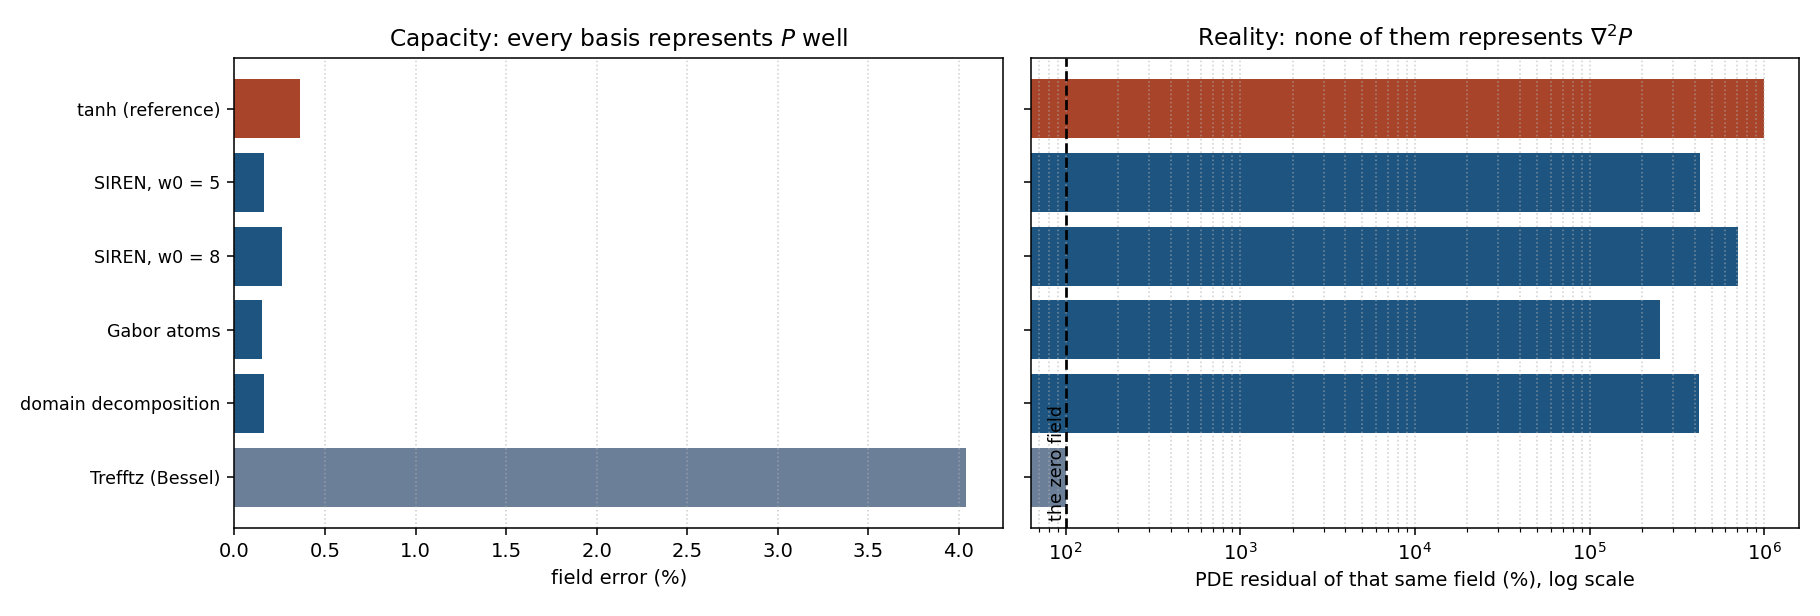
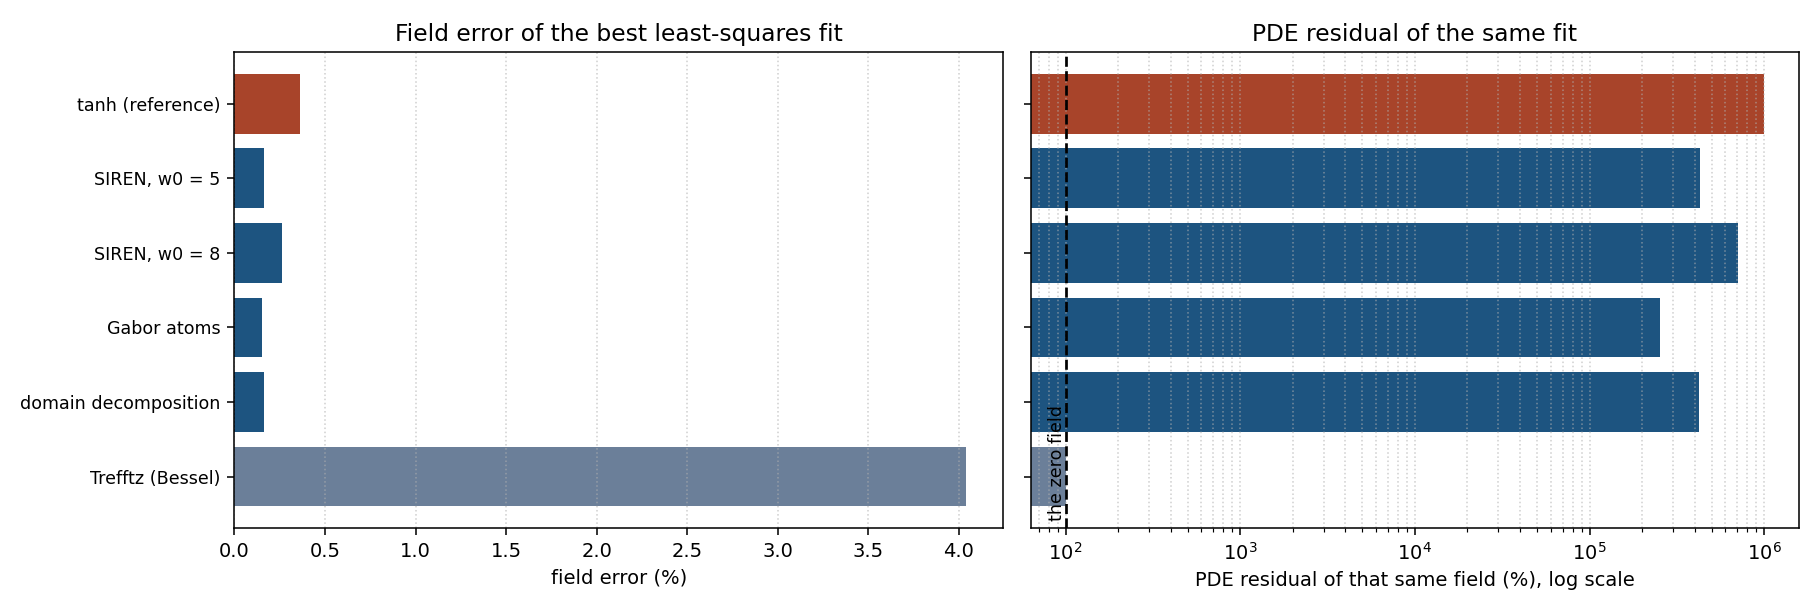
Shorten the README and move supporting detail to docs/details.md
- README cut from about 2,460 to 1,370 words; the PML study, the harmonic
  extrapolation, the validation discussion and secondary results now live
  in docs/details.md.
- Correct the end-correction wording: only the time-domain solver computes
  it; the frequency-domain solver imposes it through the radiation impedance.
- Mention the Trefftz basis shown in the benchmark figure; fix the short
  PML command (PML_SKIP_B=1 PML_SKIP_C=1) and its run time.
- Neutral titles on figures/bench_bases.png (script rerun, data unchanged).
- Re-render the hero GIF from the existing simulation output: no empty left
  margin, no coarse f0 in the title, 6.9 MB -> 4.2 MB.

diff --git a/tools/make_resonance_anim.py b/tools/make_resonance_anim.py
@@ -44,12 +44,12 @@ dom_f = mirror(dom)
 vmax = 1.15*np.abs(p_cav).max()          # scale set by the resonance (the source saturates)
 
 # temporal subsampling, to keep the GIF small
-STEP = int(os.environ.get("AN_STEP", 2))
+STEP = int(os.environ.get("AN_STEP", 3))
 idx = np.arange(0, len(ft), STEP)
 
 plt.rcParams.update({"font.size": 9.5})
-fig = plt.figure(figsize=(8.8, 6.9))
-gs = GridSpec(2, 1, height_ratios=[1.5, 1.0], hspace=0.38)
+fig = plt.figure(figsize=(6.2, 6.6))
+gs = GridSpec(2, 1, height_ratios=[1.9, 1.0], hspace=0.30, top=0.93, bottom=0.08, left=0.11, right=0.90)
 axF = fig.add_subplot(gs[0]); axS = fig.add_subplot(gs[1])
 
 zmm, rmm = z*1e3, r_full*1e3
@@ -79,7 +79,7 @@ axS.plot(t*1e3, p_cav, "C0", lw=0.9, label="cavity probe (resonance)")
 axS.set(xlabel="t (ms)", ylabel="p (Pa)", xlim=(0, ft.max()*1e3))
 axS.grid(alpha=0.3); axS.legend(fontsize=8, loc="upper right")
 cur = axS.axvline(ft[0]*1e3, color="C3", lw=1.4)
-sup = fig.suptitle("", fontsize=10.5, y=0.978)
+sup = fig.suptitle("", fontsize=9.5, y=0.985)
 
 def phase_label(tt):
     if tt < 0.010: return "the pulse propagates"
@@ -90,8 +90,8 @@ def update(k):
     i = idx[k]
     qm.set_array(np.where(dom_f, mirror(frames[i]), np.nan).ravel())
     cur.set_xdata([ft[i]*1e3, ft[i]*1e3])
-    sup.set_text(f"Open-neck Helmholtz resonator  |  t = {ft[i]*1e3:5.1f} ms  "
-                 f"-  {phase_label(ft[i])}   (f0 = {f0:.0f} Hz)")
+    sup.set_text(f"t = {ft[i]*1e3:5.1f} ms  "
+                 f"-  {phase_label(ft[i])}")
     return qm, cur, sup
 
 anim = FuncAnimation(fig, update, frames=len(idx), blit=False)
@@ -103,6 +103,6 @@ from PIL import Image, ImageSequence
 im = Image.open(out)
 fr = [f.convert("RGB").quantize(colors=80, method=Image.MEDIANCUT)
       for f in ImageSequence.Iterator(im)]
-fr[0].save(out, save_all=True, append_images=fr[1:], duration=50, loop=0, optimize=True)
+fr[0].save(out, save_all=True, append_images=fr[1:], duration=int(1000*STEP/40), loop=0, optimize=True)
 print(f"Animation: {out}  ({len(idx)} frames, f0={f0:.0f} Hz, "
       f"{os.path.getsize(out)/1e6:.1f} MB)")

diff --git a/studies/neural_basis_benchmark.py b/studies/neural_basis_benchmark.py
@@ -311,7 +311,7 @@ ax[0].barh(pos, [r[1] * 100 for r in rows], color=colours)
 ax[0].set_yticks(pos); ax[0].set_yticklabels(names, fontsize=9)
 ax[0].invert_yaxis()
 ax[0].set_xlabel("field error (%)")
-ax[0].set_title("Capacity: every basis represents $P$ well")
+ax[0].set_title("Field error of the best least-squares fit")
 ax[0].grid(ls=":", alpha=0.6, axis="x")
 
 ax[1].barh(pos, [max(r[2] * 100, 1e-1) for r in rows], color=colours)
@@ -322,7 +322,7 @@ ax[1].set_xscale("log")
 ax[1].set_yticks(pos); ax[1].set_yticklabels([])
 ax[1].invert_yaxis()
 ax[1].set_xlabel("PDE residual of that same field (%), log scale")
-ax[1].set_title("Reality: none of them represents $\\nabla^2 P$")
+ax[1].set_title("PDE residual of the same fit")
 ax[1].grid(ls=":", alpha=0.6, axis="x", which="both")
 
 fig.tight_layout()

diff --git a/README.md b/README.md
@@ -4,144 +4,113 @@ Two independent axisymmetric finite-difference solvers (frequency domain and tim
 
 ![Transient simulation of the open resonator](figures/helmholtz_resonance.gif)
 
-*Time-domain solver, 1 mm grid, mirrored meridian section. A broadband pulse from the source (left) reaches the mouth and enters the neck. Once the pulse has passed, the cavity keeps oscillating on its own: nothing in the model imposes a frequency. The f0 printed in the title is a quick FFT over this short animation run (13 Hz bins); the converged value is 204.6 Hz.*
+*Time-domain solver, 1 mm grid. A broadband pulse enters the neck; once it has passed, the cavity keeps oscillating at its own frequency. No frequency is imposed.*
 
-This started as my TIPE, the research project of the French classes préparatoires, in 2023. In 2026 I reopened it and rebuilt it properly. The repository began as a physics-informed neural network experiment, hence its old name (`PINN-Helmholtz`), but I could not judge a network's output without a reference I trusted, so I wrote and verified that reference first. The question became: can a finite-difference model predict the natural frequency of an open resonator with a stated numerical uncertainty, and where does it stop matching reality?
+This started as my TIPE, the research project of the French classes préparatoires, in 2023. In 2026 I reopened it and rebuilt it properly. The repository began as a physics-informed neural network experiment, hence its old name (`PINN-Helmholtz`), but I could not judge a network's output without a reference I trusted, so I wrote and verified that reference first. The question: can a finite-difference model predict the natural frequency of an open resonator with a stated uncertainty, and where does it stop matching reality?
 
 Reference geometry: neck radius 1 cm, neck length 4 cm, cylindrical cavity of radius 4 cm and height 8 cm, air at 20 °C.
 
+Skills: PDE discretisation, sparse linear algebra (SciPy), explicit time integration, PML, verification & validation (MMS, Richardson/GCI).
+
 ## Results
 
-| Quantity | Value | Where it comes from |
+| Quantity | Value | Source |
 |---|---|---|
-| f0, time-domain solver, extrapolated to h → 0 | 204.6 Hz, GCI 1.5% | [`verification/grid_convergence.py`](verification/grid_convergence.py) → `data/convergence_f0.npz` |
-| f0, frequency-domain solver, extrapolated to h → 0 | 203.4 Hz, GCI 2.0% | 3-grid sweeps `data/fdm_sweep_h{2.0,1.0,0.5}.npz` (computation below) |
-| Gap between the two solvers | 0.6% | inside both uncertainty bands |
-| Lumped formula with end corrections 0.85a + 0.66a | 205.6 Hz | 0.47% from the time-domain result |
-| Selamet et al. (1997), two published resonators | 0.9% and 2.2% off, no fitted parameter | [`notebooks/harmonic_study.ipynb`](notebooks/harmonic_study.ipynb), section 5 |
-| Indenbom & Pogossian (2023), Erlenmeyer flask | missed by about 11% (387–396 Hz vs 351 Hz measured) | [`experiments/literature_validation.py`](experiments/literature_validation.py) |
+| f0, time-domain solver, extrapolated to h → 0 | 204.6 Hz, GCI 1.5% | [`verification/grid_convergence.py`](verification/grid_convergence.py) |
+| f0, frequency-domain solver, extrapolated to h → 0 | 203.4 Hz, GCI 2.0% | `data/fdm_sweep_h*.npz`, computation in [`docs/details.md`](docs/details.md) |
+| Lumped formula with end corrections | 205.6 Hz | 0.47% from the time-domain value |
+| Selamet et al. (1997), two published resonators | 0.9% and 2.2% off, no fitted parameter | [`notebooks/harmonic_study.ipynb`](notebooks/harmonic_study.ipynb) §5 |
+| Indenbom & Pogossian (2023), Erlenmeyer flask | missed by about 11% | [`experiments/literature_validation.py`](experiments/literature_validation.py) |
 
-The two GCI figures are different quantities. 1.5% is the grid uncertainty of the time-domain f0 on the reference geometry. "About 2%" is the frequency-domain uncertainty: 2.0% on the reference geometry, and 2.1% on average over the five neck lengths (2 to 6 cm) of the harmonic convergence study.
+<details>
+<summary>Why there are two GCI values (1.5% and "about 2%")</summary>
+
+1.5% is the grid uncertainty of the time-domain f0 on the reference geometry. "About 2%" is the frequency-domain uncertainty: 2.0% on the reference geometry, and 2.1% on average over the five neck lengths (2 to 6 cm) of the harmonic convergence study.
+</details>
 
 ![Validation against published measurements](figures/literature_validation.png)
 
-*Left: deviation from published resonance frequencies. Selamet's two resonators have the same 4500 cm³ cavity in two shapes. The lumped formula only sees the volume and returns 85.8 Hz for both (−5.7% and +19%); the 2D field recovers both. Neither model explains the flask. Right: the Q I predict for the flask (about 40) against the published half-width, shown as a range because the paper does not say whether it is measured at half amplitude or half power.*
+*Left: deviation from published frequencies. Selamet's two resonators have the same cavity volume in two shapes; the lumped formula gives 85.8 Hz for both (−5.7% and +19%), the 2D solver recovers both. Right: predicted Q for the flask (about 40) against the published 18–30.*
 
 ## What I built
 
-All the code in this repository is mine. The physics (Helmholtz's lumped model, Rayleigh and Ingard end corrections, the baffled-piston impedance), the GCI method (Roache), the PML (Bérenger) and the measurements I validate against come from the literature listed in Credits.
+I wrote all the code here. The physics (lumped model, end corrections, baffled-piston impedance), the GCI method, the PML and the measurements come from the literature in Credits.
 
-- [`src/harmonic_solver.py`](src/harmonic_solver.py): frequency-domain solver for ∇²p + k²p = −F on the (r, z) half-plane. Sparse complex assembly, rigid walls by folding the ghost node onto the diagonal, and a Robin condition at the mouth carrying the low-frequency radiation impedance of a baffled piston. One sparse solve per frequency, about 0.1 s on the 1 mm grid (4,961 nodes).
-- [`src/transient_solver.py`](src/transient_solver.py): time-domain solver for ∂²p/∂t² = c²∇²p + F. Explicit leapfrog, axisymmetric Laplacian written in masked finite volumes, the neck open onto a meshed exterior half-space with a rigid baffle, and a broadband Ricker pulse fired from outside, so the resonator picks its own frequency.
-- [`studies/radiation_boundaries.py`](studies/radiation_boundaries.py): three outer-boundary treatments in one solver, so they can be compared on equal terms: a sponge layer, a first-order Mur absorbing condition, and an unsplit second-order PML with two auxiliary fields.
-- Verification: [`verification/mms_transient.py`](verification/mms_transient.py) (space-time manufactured solution), [`verification/grid_convergence.py`](verification/grid_convergence.py) (damped-sinusoid fit of the free decay, Richardson extrapolation, GCI), and the harmonic study in [`notebooks/harmonic_study.ipynb`](notebooks/harmonic_study.ipynb), which carries its own self-contained copy of the frequency-domain scheme with its MMS, GCI and Selamet runs.
-- Validation: [`experiments/literature_validation.py`](experiments/literature_validation.py), and a ring-down measurement chain for a real bottle ([`experiments/protocol.md`](experiments/protocol.md), [`experiments/ringdown_analysis.py`](experiments/ringdown_analysis.py)) whose `--self-test` recovers synthetic decays to 0.007% on f0 and 4.4% on Q. The measurement itself has not been made.
-- [`studies/neural_basis_benchmark.py`](studies/neural_basis_benchmark.py): a training-free test of neural bases against the verified field (end of "How I checked it").
-- [`paper/paper.pdf`](paper/paper.pdf): write-up of the harmonic study, with the derivations, the scaling-law analysis and the loss model.
+- [`src/harmonic_solver.py`](src/harmonic_solver.py): frequency-domain solver for ∇²p + k²p = −F on the (r, z) half-plane. Sparse complex assembly, rigid walls by folding the ghost node onto the diagonal, Robin radiation-impedance condition at the mouth. About 0.1 s per frequency on the 1 mm grid.
+- [`src/transient_solver.py`](src/transient_solver.py): time-domain solver for ∂²p/∂t² = c²∇²p + F. Explicit leapfrog, axisymmetric Laplacian in masked finite volumes, the neck open onto a meshed exterior half-space with a rigid baffle, excited by a broadband Ricker pulse.
+- [`studies/radiation_boundaries.py`](studies/radiation_boundaries.py): sponge layer, first-order Mur absorbing condition and an unsplit second-order PML in the same solver, so they can be compared on equal terms.
+- Verification: [`verification/mms_transient.py`](verification/mms_transient.py), [`verification/grid_convergence.py`](verification/grid_convergence.py), and [`notebooks/harmonic_study.ipynb`](notebooks/harmonic_study.ipynb) (self-contained frequency-domain scheme with its MMS, GCI and Selamet runs).
+- Validation: [`experiments/literature_validation.py`](experiments/literature_validation.py), and a self-tested ring-down analysis for a future bottle measurement ([`experiments/ringdown_analysis.py`](experiments/ringdown_analysis.py)).
+- [`studies/neural_basis_benchmark.py`](studies/neural_basis_benchmark.py): a training-free test of neural bases against the verified field.
 
 ## How it works
 
-A Helmholtz resonator is a mass on a spring: the plug of air in the neck oscillates against the compressibility of the air in the cavity, so f0 = (c/2π)·√(S / (V·(L + ΔL))). The end correction ΔL accounts for the air that moves with the plug just outside each end of the neck. It is usually assumed; here the solvers compute it.
+The resonator is a mass on a spring: the air plug in the neck oscillates against the compressibility of the air in the cavity, so f0 = (c/2π)·√(S / (V·(L + ΔL))). The end correction ΔL accounts for the air moving with the plug just outside the neck. The time-domain solver computes it from the meshed exterior; the frequency-domain solver imposes it through the radiation impedance.
 
-Both solvers work on the meridian plane of the axisymmetric geometry. On the axis the term (1/r)·∂p/∂r is 0/0; by L'Hôpital's rule it becomes ∂²p/∂r², so the Laplacian there is 2∂²p/∂r² + ∂²p/∂z², and the radial part is discretised as 4(p₁ − p₀)/h².
-
-The two solvers treat radiation differently, which is the point of having two. The frequency-domain solver stops at the mouth and replaces the exterior by an analytic impedance; the time-domain solver meshes the exterior and has to absorb the outgoing waves at its outer boundary.
+Both solvers work on the meridian plane. On the axis the term (1/r)·∂p/∂r is 0/0; by L'Hôpital's rule it becomes ∂²p/∂r², so the radial part of the Laplacian there is discretised as 4(p₁ − p₀)/h².
 
 ![Resonant mode from the frequency-domain solver](figures/helmholtz_mode.gif)
 
-*Frequency-domain solution near resonance (0.5 mm grid). Neck velocity and cavity pressure are in quadrature (+90.2° measured), the signature of a mass-spring system.*
+*Frequency-domain solution near resonance (0.5 mm grid). Neck velocity and cavity pressure are in quadrature (+90.2° measured), as expected for a mass-spring system.*
 
 ## How I checked it
 
-I followed the usual verification and validation order, because each step only means something if the previous one holds.
-
 | Step | Question | Evidence |
 |---|---|---|
-| Code verification | Does the code solve the equations it claims to? | Manufactured solutions: observed order 2.03 (frequency domain, 4 grids) and 1.98 (time domain, 4 grids) |
-| Solution verification | Is the grid fine enough? | Richardson extrapolation and GCI on 2 / 1 / 0.5 mm grids, plus a 0.25 mm control grid that moves the extrapolated f0 by 0.2–0.4% |
-| Cross-check | Does an independent solver agree? | 203.4 Hz vs 204.6 Hz, with a different discretisation and a different radiation model |
+| Code verification | Does the code solve the equations it claims to? | Manufactured solutions: observed order 2.03 (frequency domain) and 1.98 (time domain), 4 grids each |
+| Solution verification | Is the grid fine enough? | Richardson extrapolation and GCI on 2 / 1 / 0.5 mm grids; a 0.25 mm control grid moves the extrapolated f0 by 0.2–0.4% |
+| Cross-check | Does an independent solver agree? | 203.4 vs 204.6 Hz (0.6%), different discretisation and radiation model |
 | Validation | Does it match measurements? | Selamet et al. within 0.9% and 2.2%; one flask missed by 11% |
 
-**The manufactured solution found a first-order bias.** Matching the manufactured solution to the nominal wall position gave order 1.00 instead of 2. The masked finite-volume scheme puts a rigid wall on the face of the last cell, half a cell beyond the last node, so the geometry actually simulated is R + h/2. Matched to R + h/2, the same test gives order 1.98 and errors 27 times smaller at h = 2 mm. The scheme was fine; the geometry carries an O(h) bias. From then on I only compared frequencies extrapolated to h → 0.
+**The manufactured solution found a first-order bias.** Matched to the nominal wall position, the transient test gave order 1.00 instead of 2. The masked finite-volume scheme puts a rigid wall half a cell beyond the last node, so the simulated geometry is R + h/2. Matched to R + h/2, the same test gives order 1.98 and errors 27 times smaller at h = 2 mm. The scheme is second order; the O(h) error comes from the wall position. From then on I only compared frequencies extrapolated to h → 0.
 
 ![Transient MMS](figures/mms_transient.png)
 
-That decision mattered for the end correction. Identified from the raw 1 mm frequency, the meshed exterior gives ΔL = 1.29a, 15% short of the expected 1.51a, which would suggest the exterior mesh under-represents radiation. Identified from the extrapolated frequency it gives 1.56a, within 3%. The shortfall was the mesh bias.
+Extrapolating also fixed the end correction: 1.29a from the raw 1 mm run, 1.56a after extrapolation (expected 1.51a, so about 3% off).
 
 ![Grid convergence of the time-domain f0](figures/convergence_f0.png)
 
-*Time-domain f0 from a damped-sinusoid fit to the free decay, on three grids. Observed order 0.86 (the staircase walls pull it towards 1), extrapolated value 204.6 Hz, GCI 1.5%.*
+### Radiation damping and the outer boundary
 
-<details>
-<summary>How the frequency-domain number (203.4 Hz, GCI 2.0%) is computed</summary>
+With the original sponge layer, the radiation Q of the time-domain solver varied by a factor of six with purely numerical settings. Measuring each outer boundary against a domain three times larger showed why:
 
-The three sweeps were run with `studies/frequency_sweep.py` over 195–220 Hz in 0.05 Hz steps, each peak located by a three-point parabola:
-
-```python
-import numpy as np
-f2, f1, f05 = (float(np.load(f"data/fdm_sweep_h{h}.npz")["f_pk"]) for h in ("2.0", "1.0", "0.5"))
-p = np.log((f2 - f1) / (f1 - f05)) / np.log(2)    # observed order: 0.94
-f_ext = f05 + (f05 - f1) / (2**p - 1)             # 203.39 Hz
-gci = 1.25 * abs(f1 - f05) / f05 / (2**p - 1)     # 2.0 %
-```
-
-Peaks: 215.74, 209.84 and 206.75 Hz. The gap to the time-domain 204.60 Hz is 0.59%.
-</details>
-
-**The frequency was easy to pin down; the damping was not.** Across sponge, ABC and PML the time-domain f0 changed by less than 0.5%, but with the sponge settings alone the radiation Q varied by a factor of six (44 to 267). To find out why, I put three outer boundaries in one solver and measured their spurious reflection against the same run on a domain three times larger, where nothing can come back within the time window.
-
-| Outer boundary | Spurious reflection | Q drift when the exterior grows from 10 to 18 cm |
+| Outer boundary | Spurious reflection | Q drift, exterior 10 → 18 cm |
 |---|---|---|
-| sponge layer (what the solver used) | 44% | +26.8% |
-| first-order Mur ABC | 5.6% | +33.5% |
+| sponge layer | 44% | +26.8% |
+| first-order Mur | 5.6% | +33.5% |
 | PML | 4.0% | −1.8% |
 
-The sponge reflected 44% of the incident amplitude, which explained the factor of six. The PML reaches 0.09% (−61 dB) on the flat boundary but stays at 4.0% on the curved one, because I used the Cartesian complex stretch in (r, z) and left out the 1/r term of a true cylindrical PML. A stable Q between 10 and 18 cm was still not convergence: at 209 Hz the wavelength is 1.64 m, so the exterior was only 0.06 of a wavelength. Growing it to 0.27 wavelengths takes Q from 98 to 117, 187 and 270, heading for the 286 given by the analytic radiation impedance, while f0 stays within 0.1%.
-
-![Outer-boundary treatments](figures/pml_study.png)
-
-*(a) Probe signal against the large-domain reference. (b) Error over time, drawn at the default layer strength (PML −23 dB); the 4.0% in the table is after scanning the PML strength. (c) Radiation Q against exterior size in wavelengths.*
-
-**Validation.** Selamet's resonators are side branches on a duct, so their mouth is a pressure-release boundary rather than a radiating one; I ran them with that boundary in the harmonic notebook. For the Erlenmeyer flask, my lumped model reproduces the authors' 391 Hz to 0.1%, and the 2D solver stays at 387–396 Hz across every cavity aspect ratio I tried, against 351 Hz measured. Resolving the field near the neck does not close the gap. My cylindrical cavity cannot represent the flask's conical shoulder, which is the most likely missing piece, but I have not shown it.
+Why the PML floors at 4%, and how Q approaches the analytic value as the exterior grows: [`docs/details.md`](docs/details.md).
 
 ### Neural bases: a measured negative result
 
-With a verified field available, I tested the usual explanation for poor PINN results on wave problems (spectral bias, fixed with a better basis) without training anything. For each basis I computed the best least-squares projection of the verified field, then the PDE residual of that projection. tanh, SIREN, Gabor atoms and domain decomposition all represent the field to better than 0.4%, yet all leave a residual 2,500 to 10,000 times larger than that of the zero field. The basis changes the conditioning by about eleven orders of magnitude, but capacity is not the bottleneck: the solution sits on a near-cancellation between ∇²p and −k²p, and a 0.15% error on p is a large error on ∇²p. I did not go on to train a PINN on this problem.
+Without training anything, I fitted the verified field onto each neural basis by least squares and measured the PDE residual of that best fit. tanh, SIREN, Gabor atoms and domain decomposition all represent the field to better than 0.4%, yet leave a residual 2,500 to 10,000 times that of the zero field. The cause is a near-cancellation between ∇²p and −k²p: a 0.15% error on p is a large error on ∇²p. A Trefftz basis of Bessel functions solves the homogeneous equation exactly, so its residual equals the zero field's, but it cannot carry the source and fits the field only to 4%. I did not train a PINN on this problem.
 
 ![Neural basis benchmark](figures/bench_bases.png)
 
-<details>
-<summary>Other results in the notebook and the paper</summary>
-
-- Frequency sweep: 1,000 harmonic solves from 1 to 1000 Hz take 77 s. At a 1 Hz step the peak read 209.95 Hz and 6.62 kPa; at 0.005 Hz it is 209.84 Hz and 7.25 kPa, because the −3 dB bandwidth (0.73 Hz) is narrower than the first step.
-- Scaling law over neck length: a power law and the effective-length model f0 = A/√(L + ΔL) are statistically indistinguishable on the extrapolated frequencies (ΔAICc 0.3 with 5 lengths, 1.8 with 12). I keep the physical model: A matches theory (48.25), ΔL ≈ 0.67a, and its leave-one-out error is 5 to 10 times smaller.
-- End-correction decomposition: the radiation impedance shifts ΔL by 0.823a, against 8a/(3π) = 0.849a (3.1%). This is a consistency check, since that reactance is imposed.
-- Losses: viscothermal friction in the neck gives Q ≈ 47; bulk absorption is negligible (Q ~ 10⁶).
-</details>
-
 ## Limitations
 
-- Both solvers are lossless. The viscothermal boundary layer in the neck (about 0.14 mm thick) is the dominant loss and is only estimated analytically, so damping predictions are optimistic: Q ≈ 40 predicted for the flask against 18–30 published.
-- Walls are staircased on a Cartesian (r, z) grid, which is why the observed order on real geometries is about 0.9 rather than 2, and why the extrapolation step is needed.
-- Cavities are cylinders. The flask is modelled as a cylinder of equal volume, the likely reason for the 11% miss.
-- The PML has a 4% reflection floor on the curved boundary, and the largest exterior run (0.27 wavelengths, Q = 270 vs 286) is consistent with convergence but does not demonstrate it.
-- No measurement of my own: validation relies on published data. The ring-down protocol and its analysis script are ready but unused.
+- Both solvers are lossless; the dominant viscothermal loss in the neck is only estimated analytically, so Q is overpredicted (about 40 for the flask against 18–30 published).
+- Staircase walls on a Cartesian (r, z) grid bring the observed order on real geometries down to about 0.9, hence the extrapolation.
+- Cavities are cylinders. Modelled as a cylinder of equal volume, the flask stays at 387–396 Hz against 351 Hz measured for every aspect ratio tried; its conical shoulder is the likely cause, not demonstrated.
+- The PML has a 4% reflection floor on the curved boundary, and the largest exterior run (Q = 270 against 286 analytic) does not demonstrate convergence.
+- No measurement of my own: validation relies on published data.
 
 ## Reproduce
 
-Python 3.10+, `pip install -r requirements.txt` (PyTorch is only needed for the neural benchmark; the CPU build is enough). Times are from my machine, CPU only.
+`pip install -r requirements.txt` (PyTorch only for the neural benchmark, CPU build). Times measured on my machine.
 
 ```bash
-python verification/mms_transient.py                  # transient MMS, orders 1.00 vs 1.98 (~15 s)
+python verification/mms_transient.py                  # transient MMS (~15 s)
 python experiments/ringdown_analysis.py --self-test   # ~5 s
 python studies/frequency_sweep.py                     # 1-1000 Hz harmonic sweep (~77 s)
+python studies/neural_basis_benchmark.py              # no training (~1 min)
 python experiments/literature_validation.py           # Selamet + flask (~4 min)
-python studies/neural_basis_benchmark.py              # no training (~2 min)
-PML_SKIP_C=1 python studies/radiation_boundaries.py   # outer boundaries, short form (part C takes hours)
-jupyter lab notebooks/harmonic_study.ipynb            # harmonic MMS, GCI, Selamet, scaling law
+PML_SKIP_B=1 PML_SKIP_C=1 python studies/radiation_boundaries.py   # part A only (~3 min)
+jupyter lab notebooks/harmonic_study.ipynb            # harmonic MMS, GCI, Selamet
 ```
 
-Grid convergence of the time-domain solver needs three runs first. Only the 1 mm result is versioned, and the 0.5 mm run costs about eight times the 1 mm one:
+The short PML run rewrites `data/pml_study.npz` and its figure with part A only; parts B and C take hours. The time-domain grid convergence needs three solver runs first (the 0.5 mm one costs about eight times the 1 mm one):
 
 ```bash
 OR_TMS=250 OR_H=2   OR_TAG=_h2  python src/transient_solver.py
@@ -150,10 +119,10 @@ OR_TMS=250 OR_H=0.5 OR_TAG=_h05 python src/transient_solver.py
 python verification/grid_convergence.py
 ```
 
-The notebooks are committed with their outputs, so every figure can be read without running anything. `tools/` regenerates the animations and the paper figures; `latexmk -pdf paper/paper.tex` rebuilds the paper.
+The notebooks are committed with their outputs.
 
 ## Credits
 
 Clément Dumeril ([clement.dumeril.net](https://clement.dumeril.net), [github.com/clementdumeril](https://github.com/clementdumeril)). MIT licence, see [LICENSE](LICENSE).
 
-Theory and data: Helmholtz (1860), Rayleigh (1896), Crandall (1926), Ingard (1953), Morse & Ingard (1968), Bérenger (1994), Roache (1994, 1998), Selamet et al. (1997, J. Acoust. Soc. Am. 102(6)), Peters et al. (2003), Moloney (2004), Indenbom & Pogossian (2023, Acta Acustica 7, 30), and Mur's first-order absorbing boundary condition. Full entries in [`paper/references.bib`](paper/references.bib). Built on NumPy, SciPy, Matplotlib and PyTorch.
+Theory and data: Helmholtz (1860), Rayleigh (1896), Crandall (1926), Ingard (1953), Morse & Ingard (1968), Bérenger (1994), Roache (1994, 1998), Selamet et al. (1997), Peters et al. (2003), Moloney (2004), Indenbom & Pogossian (2023), and Mur's first-order absorbing boundary condition. Entries in [`paper/references.bib`](paper/references.bib). Built on NumPy, SciPy, Matplotlib and PyTorch.

diff --git a/docs/details.md b/docs/details.md
@@ -1,0 +1,63 @@
+# Details
+
+Supporting material for the [README](../README.md): the frequency-domain extrapolation, the outer-boundary study, the validation cases, and secondary results from the harmonic notebook.
+
+## Frequency-domain f0 extrapolated to zero mesh (203.4 Hz, GCI 2.0%)
+
+The three sweeps were run with `studies/frequency_sweep.py` (radiation impedance at the mouth) over 195–220 Hz in 0.05 Hz steps on 2, 1 and 0.5 mm grids, each peak located by a three-point parabola. The extrapolation uses the versioned results:
+
+```python
+import numpy as np
+f2, f1, f05 = (float(np.load(f"data/fdm_sweep_h{h}.npz")["f_pk"]) for h in ("2.0", "1.0", "0.5"))
+p = np.log((f2 - f1) / (f1 - f05)) / np.log(2)    # observed order: 0.94
+f_ext = f05 + (f05 - f1) / (2**p - 1)             # 203.39 Hz
+gci = 1.25 * abs(f1 - f05) / f05 / (2**p - 1)     # 2.0 %
+```
+
+Peaks: 215.74, 209.84 and 206.75 Hz. The time-domain solver extrapolates to 204.60 Hz (`data/convergence_f0.npz`, observed order 0.86, GCI 1.5%), a gap of 0.59%.
+
+## Outer-boundary study
+
+Source: [`studies/radiation_boundaries.py`](../studies/radiation_boundaries.py), data in `data/pml_study.npz`.
+
+With the original sponge layer, the radiation Q of the time-domain solver ranged from 44 to 267 depending on layer strength, thickness and domain size (`data/sponge_sensitivity.npz`), while f0 did not move. I implemented three terminations in one solver and measured each against the same run on a domain three times larger, where no reflection can return within the time window:
+
+- sponge: a damping term σ·∂p/∂t over a layer. It reflects 44% of the incident amplitude, which explains the factor of six on Q.
+- first-order Mur: ∂p/∂t + c ∂p/∂n = 0 on the outer ring, exact at normal incidence only. 5.6%.
+- PML: the unsplit second-order formulation with two auxiliary fields. 7.1% at the default strength, 4.0% after scanning σ.
+
+The PML reaches 0.093% (−61 dB) on the flat boundary, where the Cartesian complex stretch is exact, but stays at 4.0% (−28 dB) on the curved radial boundary, because I used the Cartesian stretch in (r, z) and left out the 1/r term of a cylindrical PML. Neither a stronger σ nor a thicker layer lowers that floor.
+
+A stable Q between 10 and 18 cm of exterior is still not convergence. At 209 Hz the wavelength is 1.64 m, so a 10 cm exterior is 0.06 of a wavelength and the PML sits in the reactive near field of the mouth. Enlarging it:
+
+| Exterior | In wavelengths | Radiation Q | f0 (Hz) |
+|---|---|---|---|
+| 10 cm | 0.061 | 98.1 | 208.32 |
+| 18 cm | 0.110 | 116.6 | 208.42 |
+| 30 cm | 0.183 | 187.2 | 208.53 |
+| 45 cm | 0.274 | 269.6 | 208.49 |
+
+Q climbs towards the 285.6 given by the analytic radiation impedance (`data/fdm_sweep_fin.npz`), while f0 stays within 0.1%. The largest run is consistent with convergence there but does not demonstrate it.
+
+![Outer-boundary treatments](../figures/pml_study.png)
+
+*(a) Probe signal against the large-domain reference. (b) Error over time, at the default layer strength (PML −23 dB). (c) Radiation Q against exterior size in wavelengths.*
+
+## Validation cases
+
+Source: [`experiments/literature_validation.py`](../experiments/literature_validation.py) and section 5 of [`notebooks/harmonic_study.ipynb`](../notebooks/harmonic_study.ipynb).
+
+Selamet et al. (1997, J. Acoust. Soc. Am. 102(6)) measured concentric cylindrical resonators as side branches on a duct. At resonance the input impedance of the neck vanishes, so the mouth is a pressure-release (Dirichlet) boundary rather than a radiating one; the notebook models that configuration. Results at h = 1 mm: 93.0 Hz against 91 Hz (2.2%) and 72.7 Hz against 72 Hz (0.9%), with no fitted parameter.
+
+Indenbom & Pogossian (2023, Acta Acustica 7, 30) measured a 100 mL Erlenmeyer flask at 351 Hz where their lumped formula gives 391 Hz. My lumped model reproduces their 391 Hz to 0.1%. The finite-difference solver, with the flask replaced by a cylinder of equal volume, gives 387–396 Hz across every aspect ratio tried, so resolving the field near the neck does not close the gap. The discrepancy corresponds to an effective neck about 54 mm long instead of 43 mm, which would fit a neck flaring into a conical shoulder; my cylindrical cavity cannot represent that.
+
+For damping, the only open-access half-width I found for a resonator with fully stated geometry is in the same paper. It gives Q between 18 and 30, a range because the paper does not state whether the width is taken at half amplitude or half power. I predict about 40. The model is optimistic about damping, as Moloney (2004) also reports: the viscothermal loss in the neck is about three times the radiation loss and is not resolved by either solver.
+
+## Other results from the harmonic notebook
+
+- Frequency sweep: 1,000 harmonic solves from 1 to 1000 Hz take 77 s. At a 1 Hz step the peak read 209.95 Hz and 6.62 kPa; at 0.005 Hz it is 209.84 Hz and 7.25 kPa, because the −3 dB bandwidth (0.73 Hz) is narrower than the first step.
+- Scaling law over neck length: a power law and the effective-length model f0 = A/√(L + ΔL) are statistically indistinguishable on the extrapolated frequencies (ΔAICc 0.3 with 5 lengths, 1.8 with 12). I keep the physical model: A matches the theoretical 48.25 m^1/2/s, ΔL ≈ 0.67a, and its leave-one-out error is 5 to 10 times smaller.
+- End-correction decomposition: the radiation impedance shifts ΔL by 0.823a, against 8a/(3π) = 0.849a (3.1%). This is a consistency check, since that reactance is imposed.
+- Losses: viscothermal friction in the neck gives Q ≈ 47; bulk absorption is negligible (Q ~ 10⁶).
+
+A longer write-up of the harmonic study, with the derivations, is in [`paper/paper.pdf`](../paper/paper.pdf).
